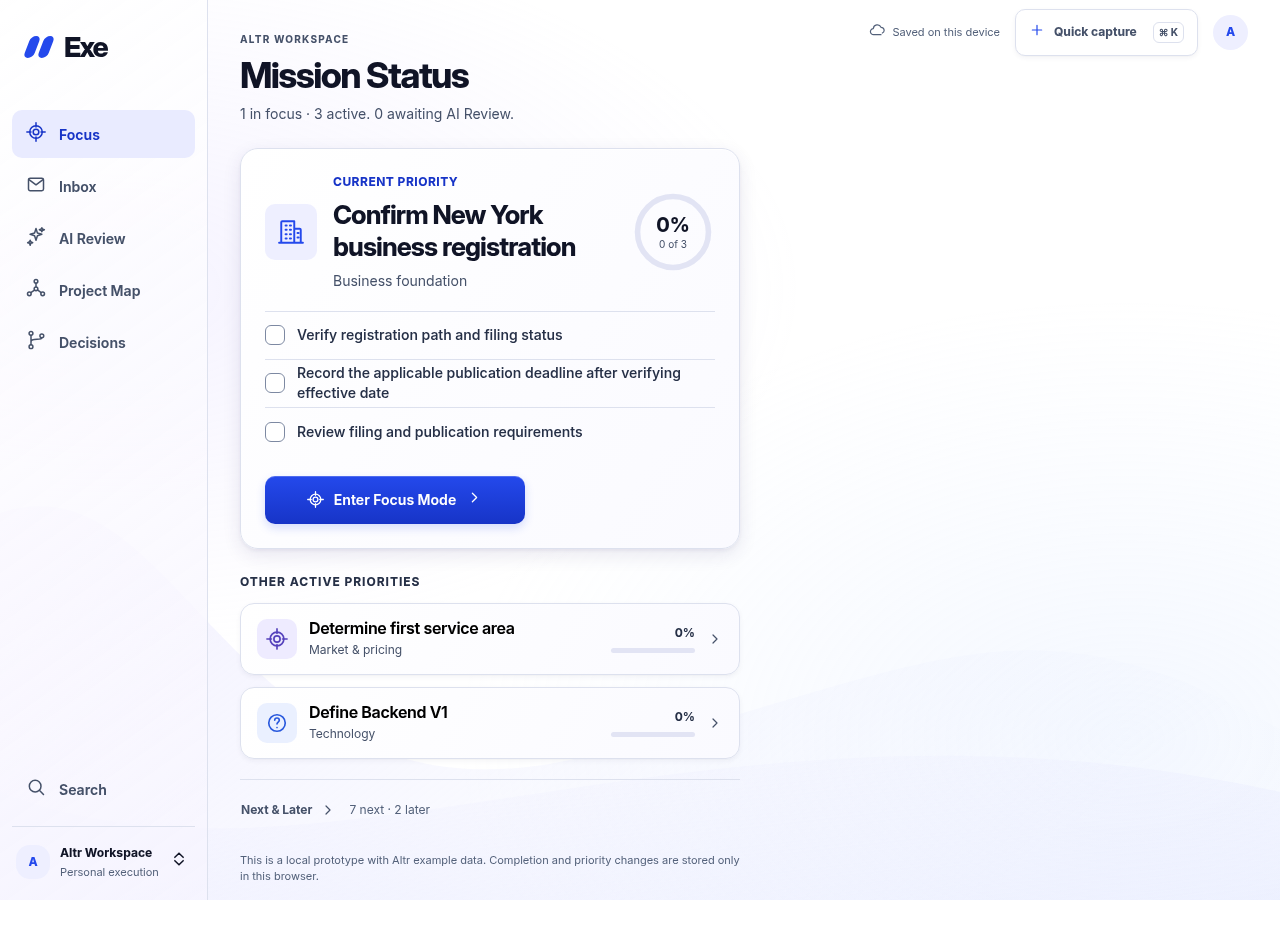
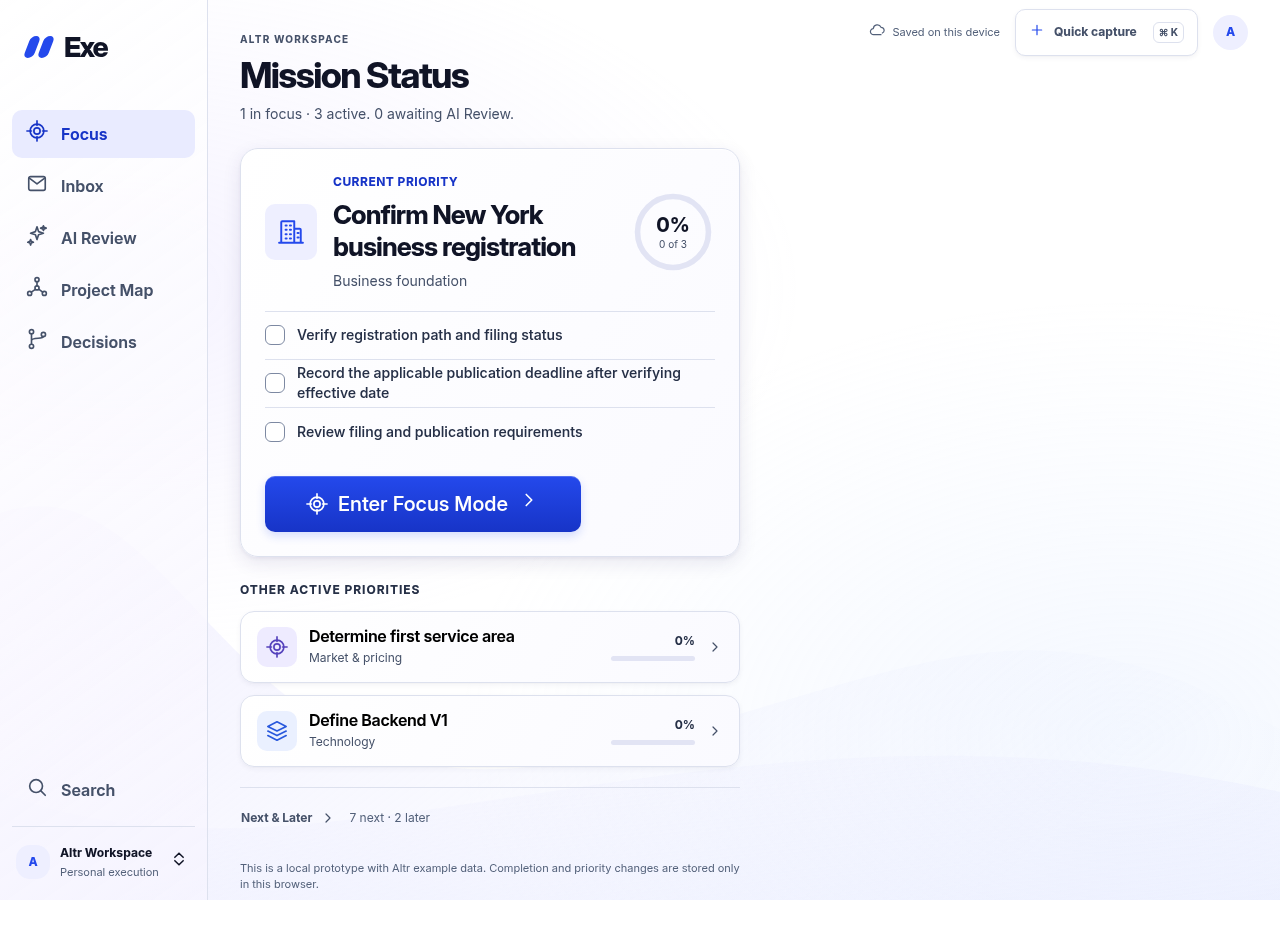
Match actual navigation capsule, selection and capture geometry to references

diff --git a/styles.css b/styles.css
@@ -121,7 +121,7 @@ a {
   font-weight: 650;
   text-align: left;
   transition: background var(--duration), color var(--duration);
-  font-size: var(--text-sm);
+  font-size: var(--text-base);
   border-radius: var(--radius-sm);
 }
 .nav-link:hover {
@@ -132,8 +132,8 @@ a {
   color: var(--blue-dark);
 }
 .nav-link svg {
-  width: 20px;
-  height: 20px;
+  width: 22px;
+  height: 22px;
   stroke-width: 1.8;
 }
 .nav-count {
@@ -1795,6 +1795,8 @@ body::before {
 }
 .dock-item {
   color: var(--ink);
+  isolation: isolate;
+  z-index: 0;
 }
 @media (max-width: 1150px) {
 .desktop-topbar {
@@ -2289,17 +2291,18 @@ html, body {
   display: flex;
   position: fixed;
   align-items: flex-end;
-  left: 12px;
-  right: 12px;
+  left: var(--dock-inset);
+  right: var(--dock-inset);
   bottom: var(--floating-inset);
   height: var(--dock-height);
   padding: 0px var(--space-1) 5px;
   border: 1px solid var(--glass-edge);
   border-radius: var(--radius-dock);
-  background: rgba(255, 255, 255, var(--glass-alpha));
+  background: linear-gradient(180deg, rgba(255,255,255,.14), rgba(232,234,255,.08)), rgba(255,255,255,var(--glass-alpha));
   backdrop-filter: blur(var(--glass-blur)) saturate(var(--glass-saturation));
   box-shadow: var(--glass-shadow);
   z-index: 75;
+  -webkit-backdrop-filter: blur(var(--glass-blur)) saturate(var(--glass-saturation));
 }
 .dock-item {
   display: flex;
@@ -2312,25 +2315,27 @@ html, body {
   gap: var(--space-1);
   border-radius: var(--radius-md);
   position: relative;
-  color: var(--secondary);
+  color: var(--ink);
   background: transparent;
 }
 .dock-item svg {
-  width: 21px;
-  height: 21px;
-  stroke-width: 1.8;
+  width: var(--dock-icon-size);
+  height: var(--dock-icon-size);
+  stroke-width: 1.65;
 }
 .dock-item small {
-  font-size: 10px;
-  font-weight: var(--weight-strong);
+  font-size: var(--dock-label-size);
+  font-weight: 600;
   white-space: nowrap;
+  line-height: 14px;
+  letter-spacing: -.2px;
 }
 .dock-item.active {
   color: var(--blue-dark);
-  background: var(--blue-light);
+  background: transparent;
 }
 .dock-item:hover {
-  background: var(--surface-blue);
+  background: transparent;
 }
 .dock-bubble {
   position: absolute;
@@ -2352,16 +2357,17 @@ html, body {
   bottom: calc(var(--floating-inset) + var(--dock-height) - var(--capture-overlap));
   width: var(--capture-size);
   height: var(--capture-size);
-  border: 3px solid var(--surface);
+  border: 2px solid rgba(255,255,255,.95);
   border-radius: 50%;
   color: var(--on-accent);
   background: linear-gradient(180deg, var(--blue), var(--blue-dark));
-  box-shadow: var(--shadow-accent);
+  box-shadow: var(--capture-shadow);
   z-index: 76;
 }
 .mobile-capture svg {
-  width: 28px;
-  height: 28px;
+  width: 30px;
+  height: 30px;
+  stroke-width: 1.6;
 }
 .mobile-capture:hover {
   background: var(--blue-dark);
@@ -2427,3 +2433,10 @@ body::before {
 }
 
 .hero-bottom .primary-button svg { width: 22px; height: 22px; }
+
+@media (max-width:760px) {
+.dock-item::before { content: ''; position: absolute; width: var(--dock-selection-width); height: var(--dock-target-height); left: 50%; top: 0; transform: translateX(-50%); border-radius: var(--dock-selection-radius); background: transparent; z-index: -1; pointer-events: none; }
+.dock-item.active::before { background: linear-gradient(180deg, #e8e5ff, #efedff); box-shadow: inset 0 1px 0 rgba(255,255,255,.55); }
+.dock-item:hover::before { background-color: var(--surface-blue); }
+.dock-item.active small { font-weight: 700; }
+}

diff --git a/design-tokens.css b/design-tokens.css
@@ -46,7 +46,7 @@
   --radius-sm: 10px;
   --radius-md: 14px;
   --radius-lg: 18px;
-  --radius-dock: 22px;
+  --radius-dock: 24px;
   --space-1: 4px;
   --space-2: 8px;
   --space-3: 12px;
@@ -65,6 +65,11 @@
   --shadow: var(--shadow-2);
   --shadow-up: var(--shadow-3);
   --radius: var(--radius-lg);
+  --dock-selection-width: 50px;
+  --dock-selection-radius: 12px;
+  --dock-icon-size: 24px;
+  --dock-label-size: 11px;
+  --capture-shadow: 0 5px 14px rgba(27, 43, 190, .24), 0 0 0 5px rgba(255,255,255,.38), inset 0 1px 0 rgba(255,255,255,.4);
   --glass-alpha: .82;
   --glass-blur: 18px;
   --glass-saturation: 1.2;
@@ -80,11 +85,12 @@
   --content-inset: 32px;
   --focus-width: 500px;
   --mobile-inset: 14px;
-  --dock-height: 90px;
-  --dock-bottom: 14px;
-  --dock-target-height: 56px;
-  --capture-size: 64px;
-  --capture-overlap: 26px;
+  --dock-inset: 4px;
+  --dock-height: 84px;
+  --dock-bottom: 8px;
+  --dock-target-height: 54px;
+  --capture-size: 68px;
+  --capture-overlap: 18px;
   --dock-assembly-height: calc(var(--dock-height) + var(--capture-size) - var(--capture-overlap));
   --floating-inset: calc(var(--dock-bottom) + env(safe-area-inset-bottom) + var(--keyboard-inset, 0px));
   --mobile-clearance: calc(var(--dock-bottom) + var(--dock-assembly-height) + 12px + env(safe-area-inset-bottom));

diff --git a/docs/navigation-correction/index.html b/docs/navigation-correction/index.html
@@ -1,0 +1,1 @@
+<!doctype html><meta charset="utf-8"><title>Actual dock comparison</title><style>body{font:14px Arial;margin:20px;color:#101426;background:white}h1{font-size:22px}section{width:1194px;display:grid;grid-template-columns:repeat(3,382px);gap:24px}figure{margin:0}img{width:382px;height:auto;display:block}figcaption{margin:12px 0;font-weight:bold}p{max-width:1150px;line-height:1.5;color:#455169}</style><h1>Reference → previous actual application → corrected actual application</h1><p>Focus selected in every actual-app capture. Width-normalized UI-only crops; original native proportions retained.</p><section><figure><img src="reference-five-destinations.png"><figcaption>Approved five-destination composition</figcaption><img src="reference-glass.png"><figcaption>Latest approved glass treatment</figcaption></figure><figure><img src="before-dock.png"><figcaption>Actual application before correction</figcaption></figure><figure><img src="after-dock.png"><figcaption>Actual application after correction</figcaption></figure></section>

diff --git a/tests/navigation_capture.py b/tests/navigation_capture.py
@@ -1,0 +1,23 @@
+"""Same-state close-up: approved crop, previous actual CSS, current actual CSS."""
+from pathlib import Path
+import subprocess
+from PIL import Image
+from playwright.sync_api import sync_playwright
+R=Path(__file__).resolve().parents[1];O=R/'docs/navigation-correction'
+with sync_playwright() as p:
+ b=p.chromium.launch(executable_path='/usr/bin/chromium',args=['--no-sandbox'])
+ for version in ['before','after']:
+  page=b.new_page(viewport={'width':390,'height':900},reduced_motion='reduce');page.goto('http://127.0.0.1:8000');page.locator('.mobile-dock [data-nav=focus]').click()
+  if version=='before':
+   page.evaluate('document.querySelectorAll("link[rel=stylesheet]").forEach(e=>e.disabled=true)')
+   for file in ['design-tokens.css','styles.css']:
+    page.add_style_tag(content=subprocess.check_output(['git','-C',str(R),'show',f'e9be4ae:{file}'],text=True))
+  page.evaluate('document.fonts.ready');page.wait_for_timeout(100)
+  dock=page.locator('.mobile-dock').bounding_box();plus=page.locator('.mobile-capture').bounding_box()
+  page.screenshot(path=str(O/f'{version}-dock.png'),clip={'x':dock['x'],'y':plus['y'],'width':dock['width'],'height':dock['y']+dock['height']-plus['y']},animations='disabled');page.close()
+ Image.open(R/'assets/design-reference/approved-floating-capture-and-inbox.webp').crop((610,792,969,924)).save(O/'reference-five-destinations.png')
+ Image.open(R/'assets/design-reference/approved-light-glass-navigation.webp').crop((640,779,1037,892)).save(O/'reference-glass.png')
+ html='''<!doctype html><meta charset="utf-8"><title>Actual dock comparison</title><style>body{font:14px Arial;margin:20px;color:#101426;background:white}h1{font-size:22px}section{width:1194px;display:grid;grid-template-columns:repeat(3,382px);gap:24px}figure{margin:0}img{width:382px;height:auto;display:block}figcaption{margin:12px 0;font-weight:bold}p{max-width:1150px;line-height:1.5;color:#455169}</style><h1>Reference → previous actual application → corrected actual application</h1><p>Focus selected in every actual-app capture. Width-normalized UI-only crops; original native proportions retained.</p><section><figure><img src="reference-five-destinations.png"><figcaption>Approved five-destination composition</figcaption><img src="reference-glass.png"><figcaption>Latest approved glass treatment</figcaption></figure><figure><img src="before-dock.png"><figcaption>Actual application before correction</figcaption></figure><figure><img src="after-dock.png"><figcaption>Actual application after correction</figcaption></figure></section>'''
+ (O/'index.html').write_text(html)
+ page=b.new_page(viewport={'width':1234,'height':480});page.goto('http://127.0.0.1:8000/docs/navigation-correction/index.html');page.screenshot(path=str(O/'comparison.png'),full_page=True);b.close()
+print('Captured same-state reference/before/after actual dock comparison.')

diff --git a/tests/navigation_geometry.py b/tests/navigation_geometry.py
@@ -1,0 +1,21 @@
+"""Guard the actual dock's reference-calibrated details, not only open ports/routes."""
+from playwright.sync_api import sync_playwright
+with sync_playwright() as p:
+ b=p.chromium.launch(executable_path='/usr/bin/chromium',args=['--no-sandbox'])
+ for width in [320,375,390,430]:
+  page=b.new_page(viewport={'width':width,'height':900},reduced_motion='reduce');page.goto('http://127.0.0.1:8000');page.evaluate('document.fonts.ready')
+  dock=page.locator('.mobile-dock');r=dock.bounding_box();plus=page.locator('.mobile-capture').bounding_box()
+  assert r['height']==84 and r['width']==width-8
+  assert plus['width']==68 and plus['height']==68
+  assert plus['y']+plus['height']-r['y']==18
+  assert 'blur(18px)' in dock.evaluate('e=>getComputedStyle(e).backdropFilter')
+  for route in ['focus','inbox','review','map','decisions']:
+   button=page.locator(f'.dock-item[data-nav={route}]');button.click()
+   assert button.get_attribute('aria-current')=='page'
+   assert button.evaluate('e=>getComputedStyle(e,"::before").width')=='50px'
+   assert button.locator('small').evaluate('e=>getComputedStyle(e).fontSize')=='11px'
+   assert button.locator('svg').evaluate('e=>getComputedStyle(e).width')=='24px'
+   box=button.bounding_box();assert box['width']>=44 and box['height']>=44 and box['y']>=plus['y']+plus['height']
+  print(f'PASS {width}px reference geometry, compact selected highlight, type/icon scale, glass, target clearance and all routes')
+  page.close()
+ b.close()

diff --git a/tests/accessibility.py b/tests/accessibility.py
@@ -9,7 +9,7 @@ with sync_playwright() as p:
         if width<761:
             session=page.context.new_cdp_session(page)
             session.send('Emulation.setSafeAreaInsetsOverride',{'insets':{'top':20,'bottom':34,'left':0,'right':0}})
-            assert float(page.locator('.mobile-dock').evaluate('e=>parseFloat(getComputedStyle(e).bottom)'))==48
+            assert float(page.locator('.mobile-dock').evaluate('e=>parseFloat(getComputedStyle(e).bottom)'))==42
         for route in ['focus','inbox','review','map','decisions']:
             page.locator(f'[data-nav="{route}"]').filter(visible=True).first.click()
             if os.environ.get('AXE_PATH'):

diff --git a/tests/design_system.py b/tests/design_system.py
@@ -26,7 +26,7 @@ with sync_playwright() as p:
             assert page.locator('.priority-hero').bounding_box()['width']==500
         else:
             targets=page.locator('.dock-item').all();plus=page.locator('.mobile-capture').bounding_box();dock=page.locator('.mobile-dock').bounding_box()
-            assert abs(plus['y']+plus['height']-dock['y']-26)<1
+            assert abs(plus['y']+plus['height']-dock['y']-18)<1
             for target in targets:
                 r=target.bounding_box();assert r['width']>=44 and r['height']>=44
                 assert plus['y']+plus['height']<=r['y']

diff --git a/docs/navigation-correction/README.md b/docs/navigation-correction/README.md
@@ -1,0 +1,21 @@
+# Actual navigation correction
+
+[Reference → previous actual app → corrected actual app](comparison.png). All actual dock close-ups have Focus selected; image widths are normalized without stretching their heights.
+
+| Detail | Previous | Corrected |
+| --- | --- | --- |
+| Capsule height | 90px | 84px |
+| Horizontal inset | 12px | 4px |
+| Bottom offset | 14px + safe area | 8px + safe area |
+| Capture circle | 64px | 68px, soft rim/highlight and layered shadow |
+| Circle intersection | 26px | 18px; leaves every navigation target clear |
+| Active highlight | Whole tab cell | Centered 50px lavender pill |
+| Icons | 21px | 24px, 1.65 stroke |
+| Labels | 10px | 11px; charcoal600 / selected cobalt700 |
+| Glass | Unprefixed blur | Standard and Safari-prefixed18px blur, subtle gradient, saturation1.2, crisp edge and inner highlight |
+
+Sidebar labels/icons are also calibrated to16px/22px. All five mobile destinations, minimum44px targets, actual counts, capture context and content clearance remain intact. The latest mockup's literal circle placement would obscure a destination, so the five-destination floating-capture composition controls that spacing.
+
+Verification: eight-width functional regressions,26 axe audits, disclosure/context/safe-area/reduced-viewport checks passed. `tests/navigation_geometry.py` additionally checks the final four mobile sizes and exact geometry/type/selection/glass contracts. `tests/navigation_capture.py` reproduces this comparison from the actual application and its previous CSS revision. No standalone replacement UI is used.
+
+[Full actual-app screenshots](../visual-conformance/navigation-correction/). No application behavior or data changes. Real iPhone Safari remains unverified; no merge or deployment.

diff --git a/docs/PR-BODY.md b/docs/PR-BODY.md
@@ -1,3 +1,7 @@
+Latest navigation correction: narrower selected pill, reference-scaled icons/labels, wider and lower-profile glass capsule, larger dimensional capture circle, corrected Safari blur and sidebar scale. All five destinations and capture behavior are retained.
+
+**[Same-state reference / before / after close-up](https://github.com/rpotlee/exe-app/blob/feat/phase-1-inbox-mobile-parity/docs/navigation-correction/comparison.png)** · [Exact corrections and verification](https://github.com/rpotlee/exe-app/blob/feat/phase-1-inbox-mobile-parity/docs/navigation-correction/README.md)
+
 Implemented the approved visual treatment in the **actual Exe application**, preserving all Phase 1 workflows and data. This is not a standalone design-master update.
 
 - Predominantly white canvas with localized lavender/cool-blue illumination and authored flowing background paths.
